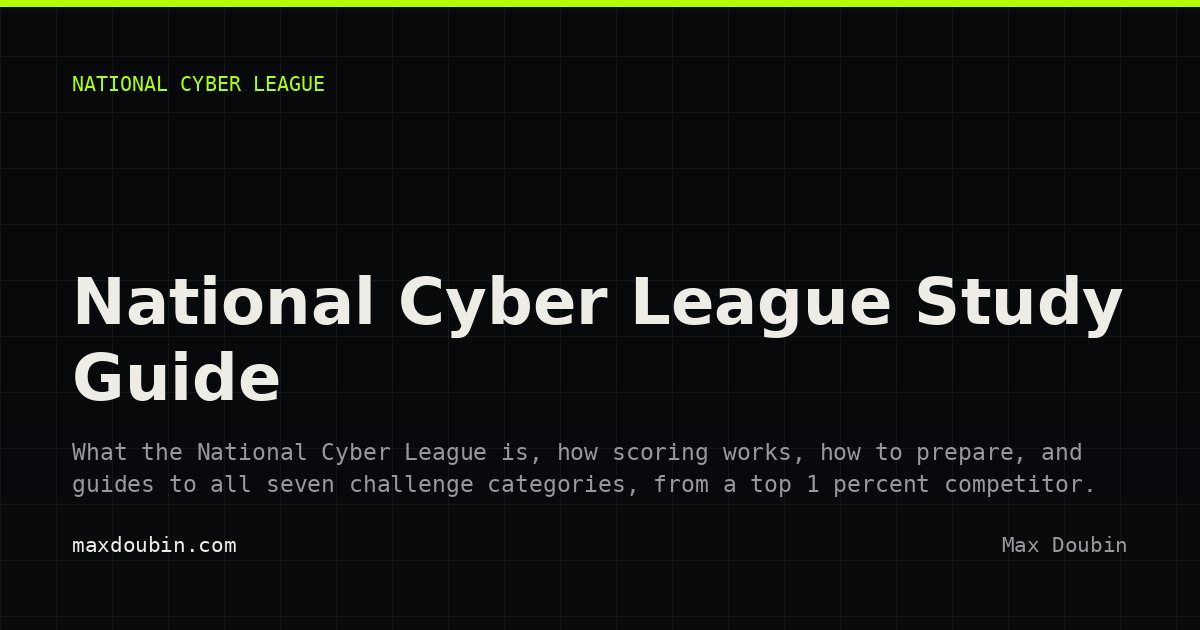
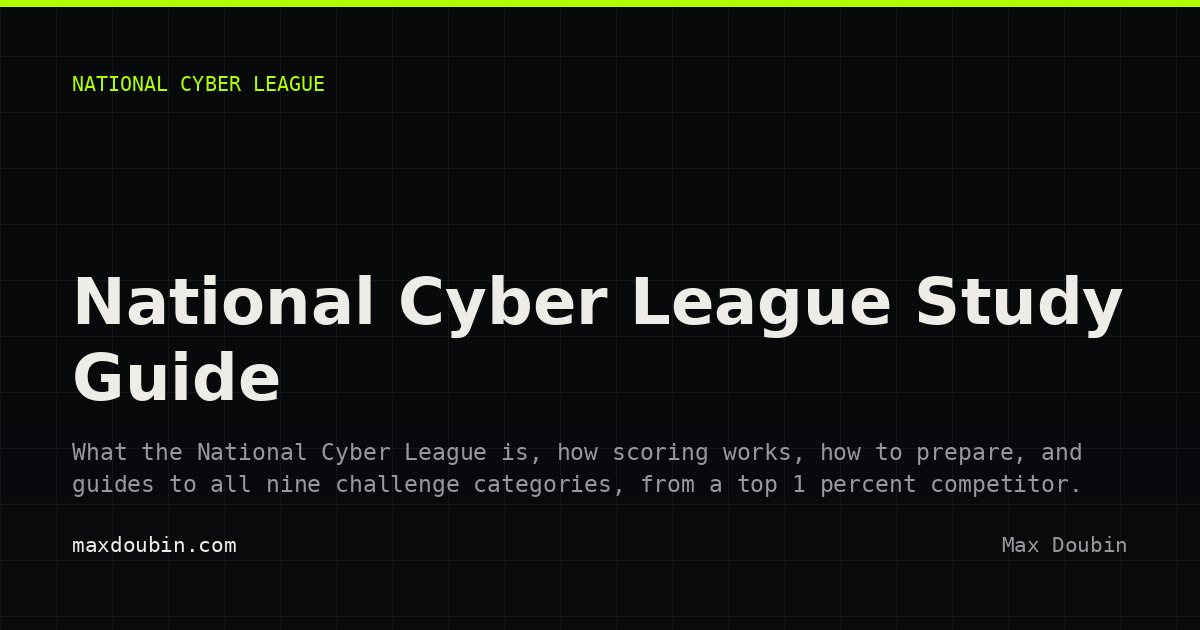
Write the two missing National Cyber League guides (#108)
The site said the National Cyber League scores seven categories, in five places. It scores nine, as Max's own scouting report shows. Scanning & Reconnaissance and Enumeration & Exploitation existed nowhere, and are now written to the same shape as the other seven.

The two hardcoded slug lists in the prerenderer, one for the static pages and one for the sitemap, both listed seven while nclGuides.ts held the truth. Both now derive from the data, which also surfaced a drifted description on the log-analysis card.

Both new guides get their own social cards, and check-meta now fails any page other than the home page or the 404 that falls back to the site-wide card.

Changed region(s): [[0.2158, 0.754, 0.8942, 0.7841]]

diff --git a/client/src/lib/nclGuides.ts b/client/src/lib/nclGuides.ts
@@ -800,6 +800,253 @@ const webExploitation: NclGuide = {
   ],
 };
 
+const scanningRecon: NclGuide = {
+  slug: "scanning-and-reconnaissance",
+  category: "Scanning & Reconnaissance",
+  order: 8,
+  tagline: "Find what is listening, then find out what it is.",
+  seoDescription:
+    "How the NCL Scanning and Reconnaissance category works: nmap host discovery, port states, service and version detection, NSE scripts, banner grabbing, and a worked example.",
+  whatItTests: [
+    "Scanning and Reconnaissance tests whether you can map a target you were given nothing but an address for. That means discovering which hosts are alive, which ports are open, what service sits behind each one, what version it is running, and what that version implies. Questions are usually answered from scan output: a port number, a service banner, an operating system guess, a certificate field, or the count of hosts responding in a range.",
+    "It is the category most directly about reading output carefully. The tooling does the work; the marks go to whoever knows which flag produces the fact being asked for, and can tell the difference between a port that is closed and a port that is filtered.",
+  ],
+  mentalModel: [
+    "Separate discovery from enumeration. First establish what exists: a ping sweep with nmap -sn over a range tells you which hosts respond without touching a single port. Only then scan ports, and only then interrogate the services you found. Running a full version scan across an entire subnet as your opening move wastes the one resource the competition actually limits, which is time.",
+    "Know what the three port states mean, because questions are written around the distinction. Open means something accepted the connection. Closed means the host replied with a reset: it is up, nothing is listening on that port. Filtered means no useful reply came back at all, which usually means a firewall dropped the probe rather than that the port is shut. A host that reports every port filtered is telling you about its firewall, not about its services.",
+    "Default scans are narrower than people assume. nmap without -p covers its top 1000 ports, not all 65535, so a service parked on a high port is invisible unless you ask for it with -p-. When a scan comes back empty and the question implies something is there, widening the port range is usually the missing step.",
+  ],
+  tools: [
+    { name: "nmap", use: "The default answer for host discovery, port scanning, service and version detection, and OS fingerprinting." },
+    { name: "nmap NSE", use: "Its script engine, which turns nmap into an enumerator: --script with a category or a named script." },
+    { name: "masscan", use: "Scans very large ranges far faster than nmap, at the cost of detail. Useful for finding candidates to scan properly." },
+    { name: "netcat", use: "Opens a raw connection to one port so you can read the banner a service sends unprompted." },
+    { name: "whatweb", use: "Fingerprints web technologies, frameworks, and versions from HTTP responses." },
+    { name: "dig / nslookup", use: "Resolves names and pulls records before any port is touched, which is often where the answer already is." },
+  ],
+  walkthrough: {
+    scenario:
+      "You are given the range 10.10.20.0/24 and asked which host is running an outdated SSH server, and what version it is.",
+    steps: [
+      {
+        label: "Find what is alive first",
+        detail:
+          "A ping sweep with -sn skips port scanning entirely and just reports which addresses answer. Scanning ports on 254 addresses when four are up is the most common way to run out of time in this category.",
+        code: "nmap -sn 10.10.20.0/24",
+      },
+      {
+        label: "Scan only the live hosts",
+        detail:
+          "With four addresses instead of 254, a full port range is affordable. -p- covers all 65535 ports rather than nmap's default top 1000, which matters because an SSH daemon moved off 22 is exactly the kind of thing this question hides.",
+        code: "nmap -p- 10.10.20.5,17,42,103",
+      },
+      {
+        label: "Ask the service what it is",
+        detail:
+          "-sV probes each open port and matches the reply against nmap's service fingerprint database. The version string is the answer to most questions in this category, so this flag is the one to reach for once the port list is known.",
+        code: "nmap -sV -p 22,2222,80,443 10.10.20.42",
+      },
+      {
+        label: "Read the version, then judge it",
+        detail:
+          "The scan reports OpenSSH 7.2p2 on 2222. That release is from 2016, so it is the outdated one. Confirm by hand with netcat if you want the raw banner: SSH servers announce themselves before authentication, so a bare connection is enough.",
+        code: "PORT     STATE SERVICE VERSION\n2222/tcp open  ssh     OpenSSH 7.2p2 Ubuntu 4ubuntu2.10",
+      },
+    ],
+    answer:
+      "10.10.20.42 is running OpenSSH 7.2p2 on port 2222. Found by sweeping for live hosts first, scanning the full port range on only those, and using -sV to read the version off the service rather than assuming it from the port number.",
+  },
+  mistakes: [
+    "Scanning every address in a range before checking which ones are up. A -sn sweep first turns a scan that times out into one that finishes.",
+    "Forgetting that nmap's default is the top 1000 ports. When a service seems missing, -p- is usually what was missing.",
+    "Reading filtered as closed. Filtered means no answer came back, which points at a firewall; closed means the host actively refused, which means it is up.",
+    "Assuming the service from the port number. Port 8080 is not necessarily HTTP and port 22 is not necessarily SSH; -sV is what settles it.",
+    "Skipping DNS. A zone transfer, a TXT record, or a reverse lookup sometimes answers the question before a single port is scanned.",
+    "Ignoring the NSE scripts. --script=default or a targeted script often produces the exact field a question asks for in one command.",
+  ],
+  resources: [
+    { label: "Nmap Reference Guide", detail: "The official manual, and the fastest way to find the flag that produces a given fact.", url: "https://nmap.org/book/man.html" },
+    { label: "Nmap Scripting Engine", detail: "How NSE scripts work and what categories exist.", url: "https://nmap.org/book/nse.html" },
+    { label: "Port states explained", detail: "Nmap's own description of open, closed, filtered, and the combined states.", url: "https://nmap.org/book/man-port-scanning-basics.html" },
+    { label: "masscan", detail: "The very fast scanner, for ranges too large to nmap directly.", url: "https://github.com/robertdavidgraham/masscan" },
+    { label: "IANA Service Name and Port Registry", detail: "The authoritative list of what a port number is assigned to.", url: "https://www.iana.org/assignments/service-names-port-numbers/service-names-port-numbers.xhtml" },
+    { label: "NIST SP 800-115", detail: "NIST's technical guide to information security testing, including the discovery phase.", url: "https://csrc.nist.gov/pubs/sp/800/115/final" },
+  ],
+  quiz: [
+    {
+      id: "scanning-q1",
+      question: "An nmap scan reports a port as filtered. That means:",
+      choices: [
+        "The host refused the connection with a reset",
+        "No usable reply came back, typically because a firewall dropped the probe",
+        "A service is listening and accepted the connection",
+        "The host is offline",
+      ],
+      correctIndex: 1,
+      explanation:
+        "Filtered means nmap got no useful answer, which usually indicates a firewall dropping probes. Closed is the state where the host actively refuses with a reset, which also proves the host is up.",
+    },
+    {
+      id: "scanning-q2",
+      question: "By default, how many TCP ports does nmap scan?",
+      choices: ["All 65535", "The top 1000 most common", "Only the well-known ports 1 to 1023", "The first 100"],
+      correctIndex: 1,
+      explanation:
+        "nmap scans its top 1000 ports unless told otherwise. -p- widens it to all 65535, which is how a service on a high port gets found.",
+    },
+    {
+      id: "scanning-q3",
+      question: "Which flag makes nmap identify the software and version behind an open port?",
+      choices: ["-sn", "-sV", "-Pn", "-sS"],
+      correctIndex: 1,
+      explanation:
+        "-sV runs version detection, probing each open port and matching the response against nmap's fingerprint database. -sn is a ping sweep with no port scan, -Pn skips host discovery, and -sS is a SYN scan that reports state without version.",
+    },
+    {
+      id: "scanning-q4",
+      question: "You need to know which of 254 addresses are up, as quickly as possible. The right first command is:",
+      choices: [
+        "nmap -p- on the whole range",
+        "nmap -sV on the whole range",
+        "nmap -sn on the whole range",
+        "netcat against each address in turn",
+      ],
+      correctIndex: 2,
+      explanation:
+        "-sn is host discovery only: it reports which addresses respond without scanning any ports. Port and version scans come after, against the short list it produces.",
+    },
+  ],
+};
+
+const enumerationExploitation: NclGuide = {
+  slug: "enumeration-and-exploitation",
+  category: "Enumeration & Exploitation",
+  order: 9,
+  tagline: "Read the code for the assumption it makes, then break the assumption.",
+  seoDescription:
+    "How the NCL Enumeration and Exploitation category works: reading source for injection, buffer overflows, integer and format string bugs, race conditions, and a worked example.",
+  whatItTests: [
+    "Enumeration and Exploitation is the code and binary category. You are given source, or a compiled program, or a service you can reach, and asked to make it do something it was not written to do: return data it should not, run a command it should not, or reveal a value it holds. Command injection, buffer overflows, integer handling bugs, format string bugs, path traversal, and race conditions are the recurring shapes.",
+    "It is the category with the widest difficulty spread. An easy question is a shell command built by string concatenation, which anyone who spots it can solve in a minute. A hard one is a race condition or a memory corruption chain, and those are worth banking for later rather than opening first.",
+  ],
+  mentalModel: [
+    "Look for the boundary where input becomes instruction. Almost every exploitable bug in this category is a place where something the user controls is treated as something the program trusts: a filename that becomes part of a shell command, a length field that decides how many bytes to copy, a format string that is user text, a path that is concatenated instead of resolved. Read the code asking which value crosses that line, not asking whether it looks unsafe.",
+    "For memory bugs, the question is always what writes and what decides how much. A fixed buffer plus a copy whose length comes from input is the classic pair: strcpy, gets, sprintf, and any memcpy whose size argument is attacker-influenced. Signed and unsigned confusion belongs here too. A negative length checked with a signed comparison passes the test and then becomes an enormous unsigned value at the copy.",
+    "For race conditions, the bug lives in the gap between check and use. A program that tests whether a file is safe and then opens it has a window in between where the file can be swapped. The exploit is not clever code, it is running the two halves against each other until the timing lands. That is why these are slow to solve and worth deferring.",
+  ],
+  tools: [
+    { name: "Ghidra", use: "Decompiles a binary back to readable C, which is usually faster than reading the disassembly." },
+    { name: "GDB with pwndbg or GEF", use: "Runs the binary under a debugger with the exploitation-oriented views these plugins add." },
+    { name: "pwntools", use: "A Python library for building the input, sending it, and handling the process or socket." },
+    { name: "checksec", use: "Reports which protections a binary was built with: NX, stack canaries, PIE, RELRO." },
+    { name: "strings and objdump", use: "Fast first look at a binary: embedded text, symbols, and the function list." },
+    { name: "ltrace / strace", use: "Shows which library and system calls run, which often exposes the unsafe one immediately." },
+  ],
+  walkthrough: {
+    scenario:
+      "You are given the source of a small web utility that reports whether a host is reachable, and asked to read a file the application should not expose.",
+    steps: [
+      {
+        label: "Find where input reaches an interpreter",
+        detail:
+          "The handler builds a shell command by concatenating the host parameter into a string and passing it to a shell. That concatenation is the boundary: everything after it is instruction, and the host value came from the request.",
+        code: "cmd = \"ping -c 1 \" + request.args[\"host\"]\nsubprocess.run(cmd, shell=True)",
+      },
+      {
+        label: "Confirm the shell is really a shell",
+        detail:
+          "shell=True means the string is handed to /bin/sh, so shell metacharacters are live. A semicolon ends the ping and starts a second command; a pipe or a backtick would work as well. Test with something harmless and observable before trying to read anything.",
+        code: "?host=127.0.0.1;id",
+      },
+      {
+        label: "Read the target",
+        detail:
+          "With command execution confirmed, the payload becomes whatever the question asks for. The output of the injected command lands in the same response body the ping output was going to fill.",
+        code: "?host=127.0.0.1;cat%20/etc/passwd",
+      },
+      {
+        label: "Note what the fix would have been",
+        detail:
+          "Passing an argument list instead of a string removes the shell entirely, so there is no metacharacter to inject. Competition questions sometimes ask for the remediation as well as the exploit, and this is the answer they want: no shell, arguments as a list, validate the host separately.",
+        code: "subprocess.run([\"ping\", \"-c\", \"1\", host])",
+      },
+    ],
+    answer:
+      "The host parameter is concatenated into a shell command run with shell=True, so a semicolon injects a second command whose output is returned with the response. The fix is to pass an argument list, which removes the shell.",
+  },
+  mistakes: [
+    "Opening the hardest binary first. Read every question in the category, clear the injection and traversal ones, then spend what is left on memory corruption.",
+    "Reading a binary in disassembly when Ghidra would decompile it to C in a minute.",
+    "Not running checksec. Whether a binary has NX, a canary, or PIE decides which technique is even possible, and it takes one command to find out.",
+    "Assuming a length check is safe without looking at its type. A signed comparison against a negative value passes, then becomes an enormous unsigned size at the copy.",
+    "Testing an injection with the real payload. Confirm execution with something harmless and visible first, so a failure tells you the injection did not work rather than that the payload was wrong.",
+    "Burning the clock on a race condition. They are real, they are solvable, and they are the wrong thing to be holding when time runs out.",
+  ],
+  resources: [
+    { label: "OWASP Command Injection", detail: "What the bug is, how it is exploited, and how it is prevented.", url: "https://owasp.org/www-community/attacks/Command_Injection" },
+    { label: "CWE-78: OS Command Injection", detail: "MITRE's formal description, with language-specific examples.", url: "https://cwe.mitre.org/data/definitions/78.html" },
+    { label: "CWE-787: Out-of-bounds Write", detail: "The class most buffer overflow questions belong to.", url: "https://cwe.mitre.org/data/definitions/787.html" },
+    { label: "Ghidra", detail: "The NSA's reverse engineering suite, free and the usual first tool on a binary.", url: "https://ghidra-sre.org/" },
+    { label: "pwntools documentation", detail: "The exploit development library most competition writeups use.", url: "https://docs.pwntools.com/" },
+    { label: "pwn.college", detail: "Structured, free exercises that build binary exploitation from the ground up.", url: "https://pwn.college/" },
+    { label: "Nightmare", detail: "An open binary exploitation course built around worked CTF challenges.", url: "https://guyinatuxedo.github.io/" },
+  ],
+  quiz: [
+    {
+      id: "enumeration-q1",
+      question: "In Python, subprocess.run(cmd, shell=True) with cmd built by string concatenation is dangerous because:",
+      choices: [
+        "It is slower than passing an argument list",
+        "The string is handed to a shell, so user input can add shell metacharacters and further commands",
+        "It cannot capture output",
+        "It only works on Linux",
+      ],
+      correctIndex: 1,
+      explanation:
+        "shell=True runs the string through /bin/sh, which interprets ;, |, &&, and backticks. Passing an argument list runs the program directly with no shell, so there is nothing to inject into.",
+    },
+    {
+      id: "enumeration-q2",
+      question: "checksec on a target binary reports NX enabled. That means:",
+      choices: [
+        "The stack is non-executable, so shellcode placed on it will not run",
+        "The binary is stripped of symbols",
+        "Address space layout is randomised",
+        "The binary is statically linked",
+      ],
+      correctIndex: 0,
+      explanation:
+        "NX marks writable memory non-executable, which rules out simply jumping to shellcode on the stack and pushes the exploit toward reusing existing code, such as return-oriented programming.",
+    },
+    {
+      id: "enumeration-q3",
+      question: "A length check passes but the copy still overflows. The most likely cause is:",
+      choices: [
+        "The buffer was allocated on the heap",
+        "The check compared a signed value, and a negative length became a huge unsigned size at the copy",
+        "The compiler optimised the check away",
+        "The string was not null terminated",
+      ],
+      correctIndex: 1,
+      explanation:
+        "A signed comparison accepts a negative number, which converts to an enormous value when it reaches a size_t parameter. Signed and unsigned confusion is a standard way a bounds check fails to bound anything.",
+    },
+    {
+      id: "enumeration-q4",
+      question: "A program checks that a file is safe, then opens it. The window between those two operations is:",
+      choices: [
+        "A format string bug",
+        "An integer overflow",
+        "A time-of-check to time-of-use race condition",
+        "A use-after-free",
+      ],
+      correctIndex: 2,
+      explanation:
+        "TOCTOU: the property verified at check time can be changed before use time, for example by replacing the file with a symlink. The fix is to operate on a handle opened once rather than re-resolving the path.",
+    },
+  ],
+};
+
 export const NCL_GUIDES: NclGuide[] = [
   osint,
   cryptography,
@@ -808,6 +1055,8 @@ export const NCL_GUIDES: NclGuide[] = [
   trafficAnalysis,
   forensics,
   webExploitation,
+  scanningRecon,
+  enumerationExploitation,
 ];
 
 export function getGuide(slug: string): NclGuide | undefined {

diff --git a/script/prerender.ts b/script/prerender.ts
@@ -559,7 +559,7 @@ async function main(): Promise<void> {
     <li><a href="${SITE_URL}/study">Certification study</a>, mapped to the published Security+, Network+ and CCNA exam objectives.</li>
     <li><a href="${SITE_URL}/data">Open rack hardware dataset</a>, power, heat, rack units and port counts as JSON and CSV under CC BY 4.0.</li>
     <li><a href="${SITE_URL}/game">Hyperscale</a>, a datacenter simulator running on real power and cooling maths.</li>
-    <li><a href="${SITE_URL}/ncl">National Cyber League guides</a> for all seven scored categories.</li>
+    <li><a href="${SITE_URL}/ncl">National Cyber League guides</a> for all nine scored categories.</li>
     <li><a href="${SITE_URL}/cyber-club/kit">Cyber Club in a Box</a>, a free twelve week plan for starting a school cybersecurity club.</li>
   </ul>
   <h2>About</h2>
@@ -750,7 +750,7 @@ ${JSON.stringify({
       dir: "ncl",
       title: "National Cyber League Study Guide | Max Doubin",
       description:
-        "What the National Cyber League is, how scoring works, how to prepare, and guides to all seven challenge categories, from a top 1 percent competitor.",
+        "What the National Cyber League is, how scoring works, how to prepare, and guides to all nine challenge categories, from a top 1 percent competitor.",
       canonical: `${SITE_URL}/ncl`,
       // The seven guides were reachable from nowhere: this index rendered its
       // list client side, so a crawler saw an empty page with no links out.
@@ -758,7 +758,7 @@ ${JSON.stringify({
 <main>
   <h1>National Cyber League study guide</h1>
   <p>
-    The National Cyber League scores seven categories. Each guide below covers
+    The National Cyber League scores nine categories. Each guide below covers
     what that category tests, the tools worth knowing, a worked example, and
     the mistakes that cost the most time.
   </p>
@@ -1326,25 +1326,26 @@ ${JSON.stringify({
   });
 
   // ── National Cyber League category guides ──
-  const NCL_GUIDES: Array<[string, string, string]> = [
-    ["open-source-intelligence", "Open Source Intelligence", "How the NCL Open Source Intelligence category works: pivoting from a clue, metadata and GPS extraction, DNS and certificate recon, and a worked example."],
-    ["cryptography", "Cryptography", "How the NCL Cryptography category works: telling encodings from ciphers, classical cipher methods, RSA weaknesses, and a worked example."],
-    ["password-cracking", "Password Cracking", "How the NCL Password Cracking category works: identifying hash types, hashcat and John modes, wordlists, rules and masks, plus a worked MD5 example."],
-    ["log-analysis", "Log Analysis", "How the NCL Log Analysis category works: reading web and auth log formats, grep and awk aggregation, spotting brute force, and a worked example."],
-    ["network-traffic-analysis", "Network Traffic Analysis", "How the NCL Network Traffic Analysis category works: reading pcaps in Wireshark, display versus capture filters, following streams, and an example."],
-    ["forensics", "Forensics", "How the NCL Forensics category works: file signatures and magic bytes, strings and binwalk, steganography, metadata, memory analysis, and a worked example."],
-    ["web-application-exploitation", "Web Application Exploitation", "How the NCL Web Application Exploitation category works: recon and enumeration, SQL injection, XSS, OWASP references, and a worked example."],
-  ];
+  /*
+    Derived from nclGuides.ts rather than listed here. The hardcoded copy of
+    this list had seven entries while the data had nine, so two guides existed
+    in the app and in no static document. A list that has to be edited twice
+    gets edited once.
+  */
+  const NCL_GUIDES: Array<[string, string, string]> = NCL_GUIDE_DATA.map(
+    (g: { slug: string; category: string; seoDescription: string }) =>
+      [g.slug, g.category, g.seoDescription] as [string, string, string],
+  );
   for (const [slug, name, description] of NCL_GUIDES) {
     const url = `${SITE_URL}/ncl/${slug}`;
     /*
       Give the guide a body a crawler can read.
 
-      These seven pages were prerendering ten characters: the loading
+      These pages were prerendering ten characters: the loading
       placeholder. Everything a reader sees is rendered from nclGuides.ts
-      after hydration, so to Google they were seven empty pages in the
-      sitemap, which is worse than not listing them. The data was already
-      there; it just was not being written into the HTML.
+      after hydration, so to Google they were empty pages in the sitemap,
+      which is worse than not listing them. The data was already there; it
+      just was not being written into the HTML.
     */
     const guide = NCL_GUIDE_DATA.find((g) => g.slug === slug);
     const guideContent = guide
@@ -1783,15 +1784,7 @@ async function writeSitemap(
       priority: "0.7",
     });
   }
-  for (const slug of [
-    "open-source-intelligence",
-    "cryptography",
-    "password-cracking",
-    "log-analysis",
-    "network-traffic-analysis",
-    "forensics",
-    "web-application-exploitation",
-  ]) {
+  for (const slug of NCL_GUIDE_DATA.map((g: { slug: string }) => g.slug)) {
     urls.push({
       loc: `${SITE_URL}/ncl/${slug}`,
       lastmod: today,

diff --git a/client/src/pages/cinematic/CinematicNcl.tsx b/client/src/pages/cinematic/CinematicNcl.tsx
@@ -11,7 +11,7 @@ const courseSchema = {
   "@type": "Course",
   name: "National Cyber League Preparation",
   description:
-    "A preparation guide for the National Cyber League, covering all seven challenge categories with mental models, tooling, worked examples, and self-check quizzes.",
+    "A preparation guide for the National Cyber League, covering all nine challenge categories with mental models, tooling, worked examples, and self-check quizzes.",
   url: `${SITE_URL}/ncl`,
   inLanguage: "en",
   about: NCL_GUIDES.map((g) => g.category),
@@ -24,7 +24,7 @@ export function CinematicNcl() {
   useSEO({
     title: "National Cyber League Study Guide | Max Doubin",
     description:
-      "What the National Cyber League is, how scoring works, how to prepare, and guides to all seven challenge categories, from a top 1 percent competitor.",
+      "What the National Cyber League is, how scoring works, how to prepare, and guides to all nine challenge categories, from a top 1 percent competitor.",
     canonical: `${SITE_URL}/ncl`,
     schema: courseSchema,
     schemaId: "ncl-course-schema",
@@ -110,7 +110,7 @@ export function CinematicNcl() {
 
           <section className="mt-16">
             <h2 className="font-display text-2xl font-medium tracking-tight text-[hsl(var(--brand-bone))] md:text-3xl">
-              The seven categories
+              The nine categories
             </h2>
             <p className="mt-3 max-w-2xl font-mono-tight text-sm leading-relaxed text-[hsl(var(--brand-bone-dim))]">
               Each guide covers what the category tests, the mental model, the

diff --git a/client/src/pages/cinematic/CinematicNclGuide.tsx b/client/src/pages/cinematic/CinematicNclGuide.tsx
@@ -55,7 +55,7 @@ export function CinematicNclGuide() {
               Guide not found.
             </h1>
             <p className="mt-4 font-mono-tight text-sm leading-relaxed text-[hsl(var(--brand-bone-dim))]">
-              That category does not exist. Browse all seven from the index.
+              That category does not exist. Browse all nine from the index.
             </p>
             <Link
               href="/ncl"
